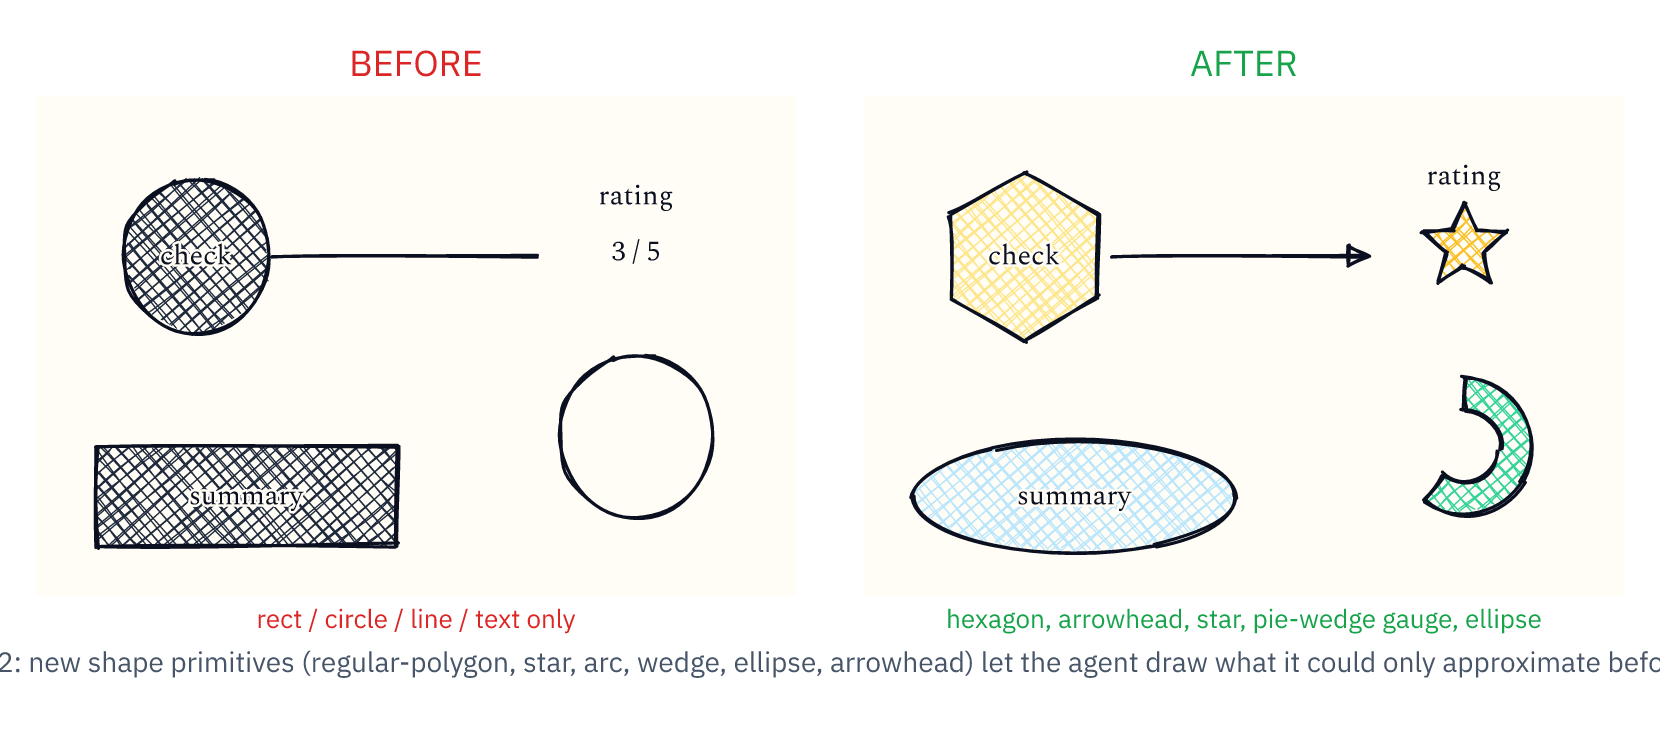
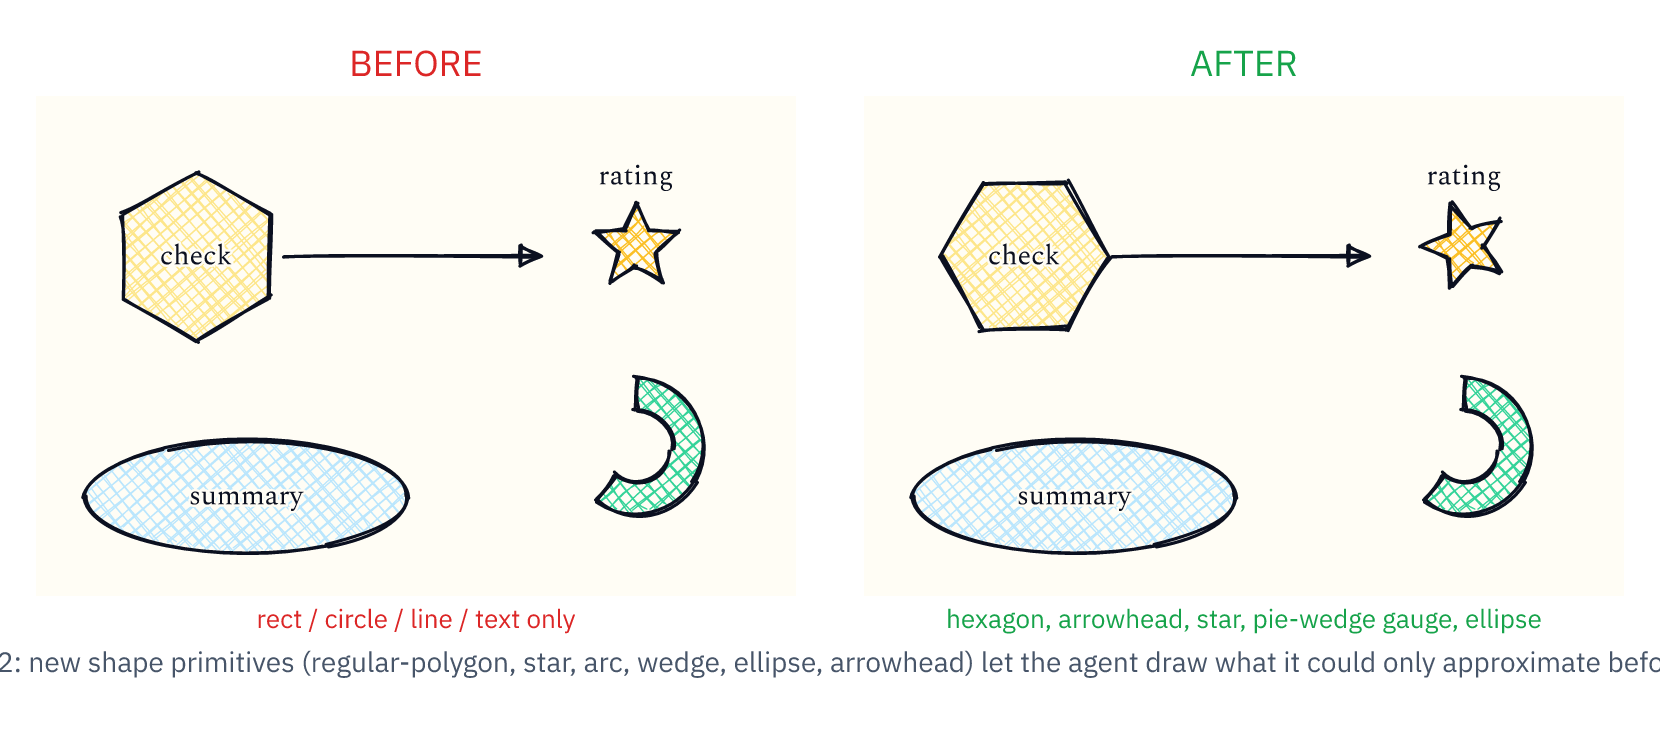
Regenerate MCP snapshots for relocated @user + add headless parity assertion

diff --git a/mcp/src/charts.test.ts b/mcp/src/charts.test.ts
@@ -84,6 +84,11 @@ describe('chart render tools', () => {
         expect(svg).not.toContain('<div');
       });
 
+      it('embeds the vibe font for headless rendering', async () => {
+        const result = await tool.handler(sample);
+        expect(result.content[0].text).toContain('@font-face');
+      });
+
       it('is deterministic (golden snapshot)', async () => {
         const result = await tool.handler(sample);
         expect(result.content[0].text).toMatchSnapshot();